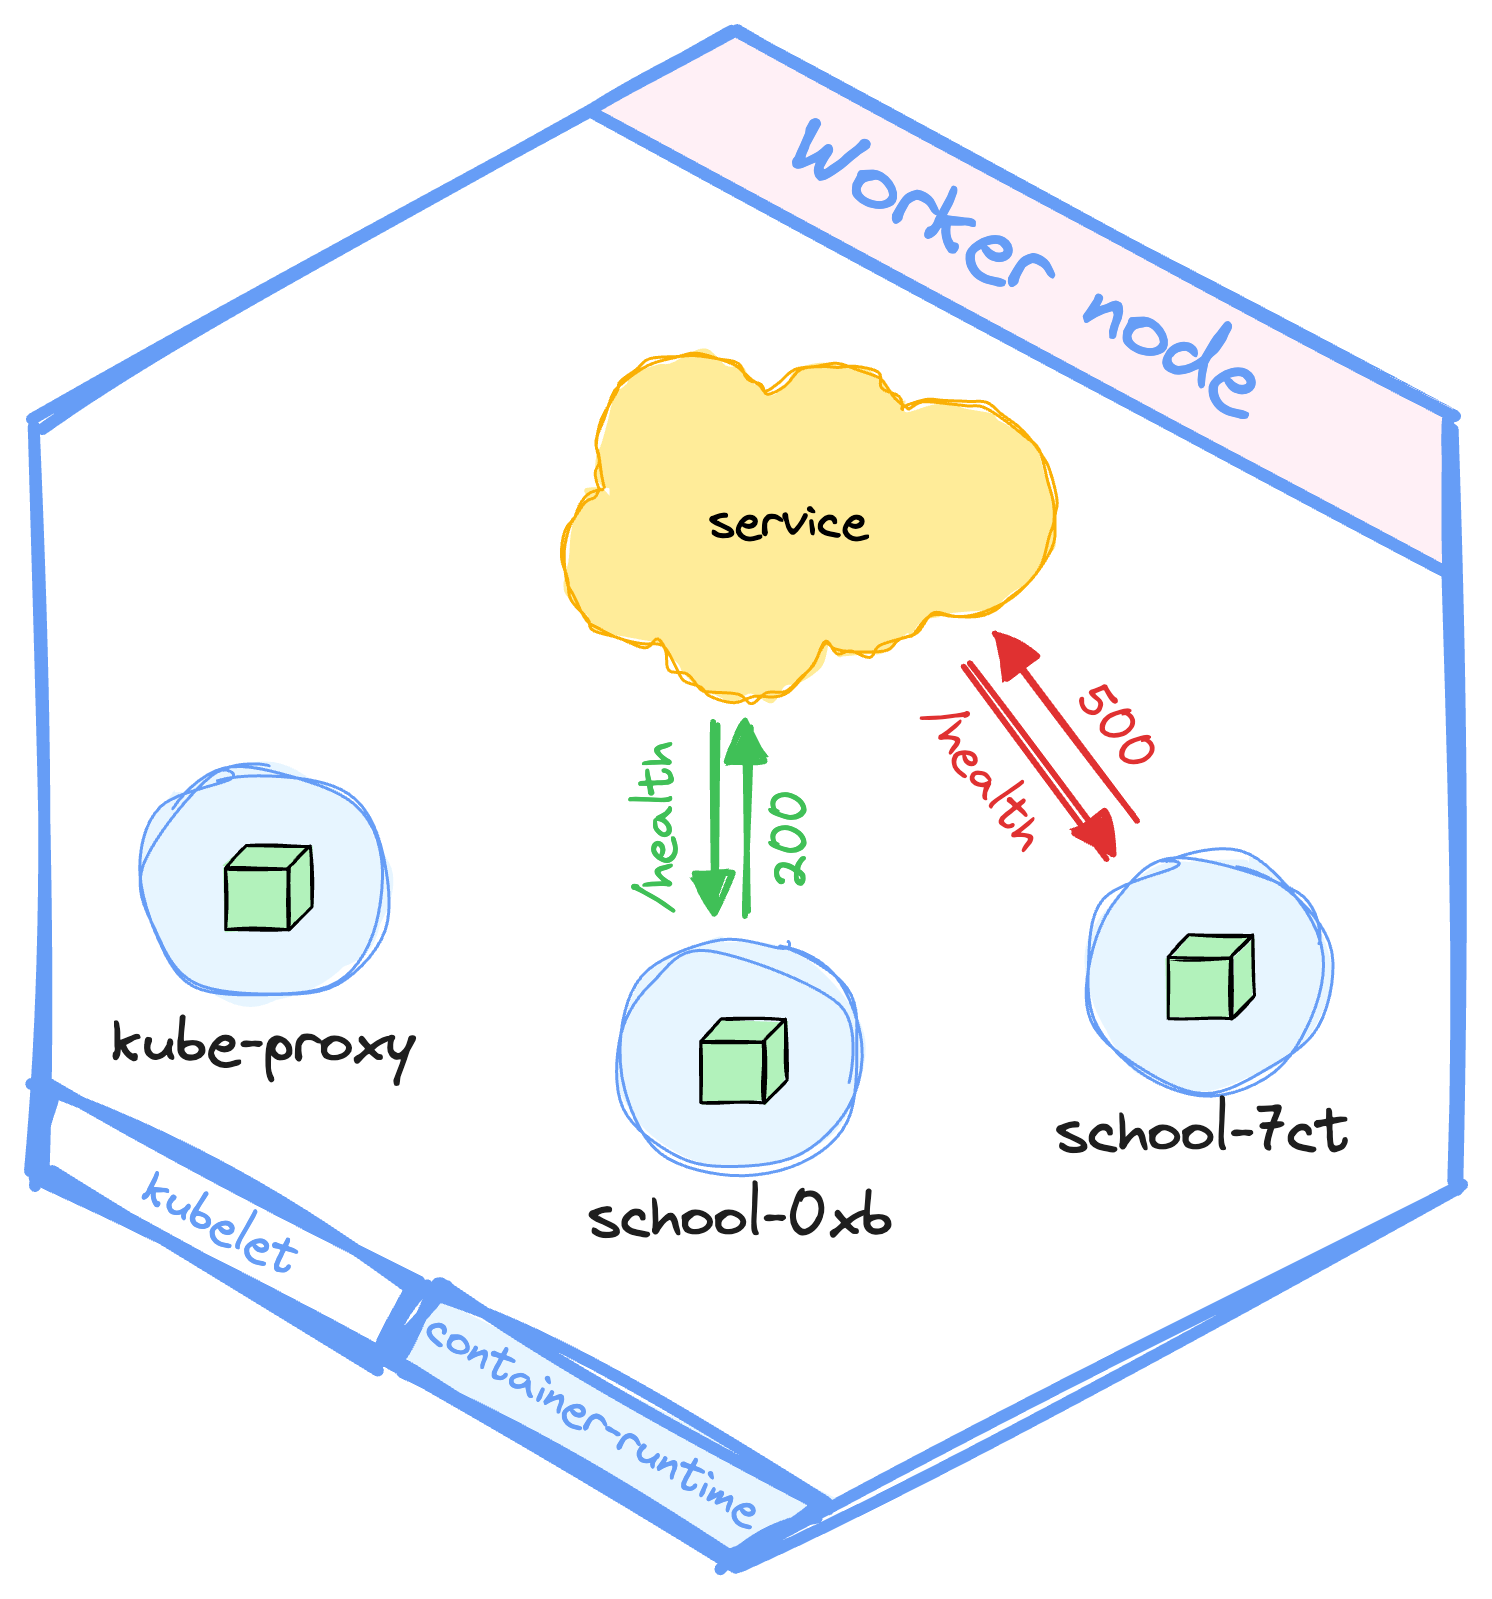
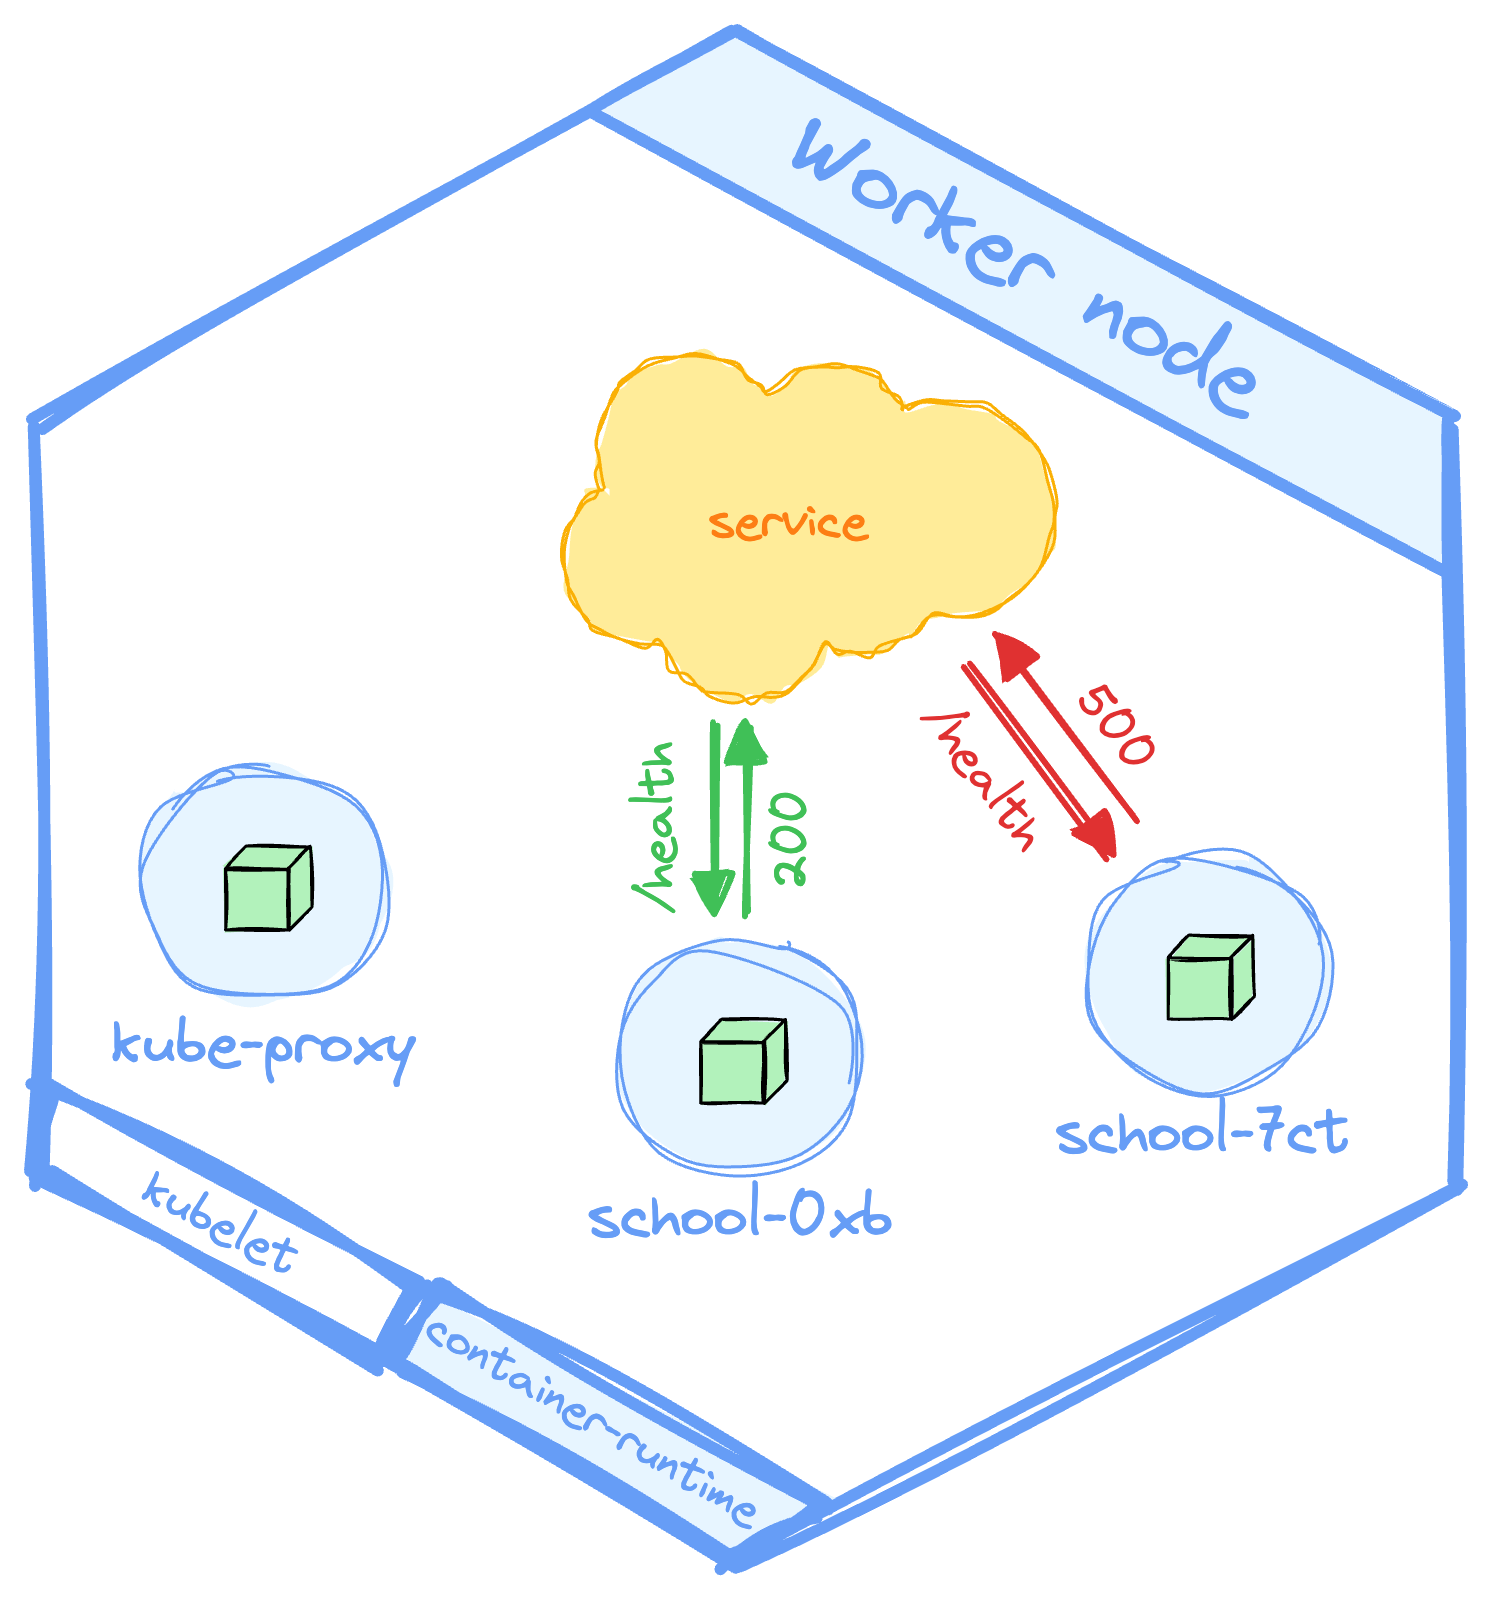
refacto: Harmonized colors across the application

diff --git a/docs/markdown/04-cluster_interaction/01-cluster_interaction.md b/docs/markdown/04-cluster_interaction/01-cluster_interaction.md
@@ -7,7 +7,7 @@ Client Kubernetes en ligne de commande écrit en go et interagissant avec l'api 
 * Un fichier peut contenir plusieurs clusters, découpé en contextes.
   * Un contexte est un ensemble contenant cluster + utilisateur
 
-![h-600](./assets/images/kubectl-config.png)
+![center h-600](./assets/images/kubectl-config.png)
 
 Notes:
 Comme Docker, Kubernetes s’utilise en mode client-server.

diff --git a/docs/markdown/03-kub_cluster/01-kub_cluster.md b/docs/markdown/03-kub_cluster/01-kub_cluster.md
@@ -2,7 +2,7 @@
 
 ## Le cluster Kubernetes > **Vue d'ensemble**
 
-![w-800](./assets/images/kube-overview.png)
+![w-800](./assets/images/archi-kube.png)
 
 ##--##
 
